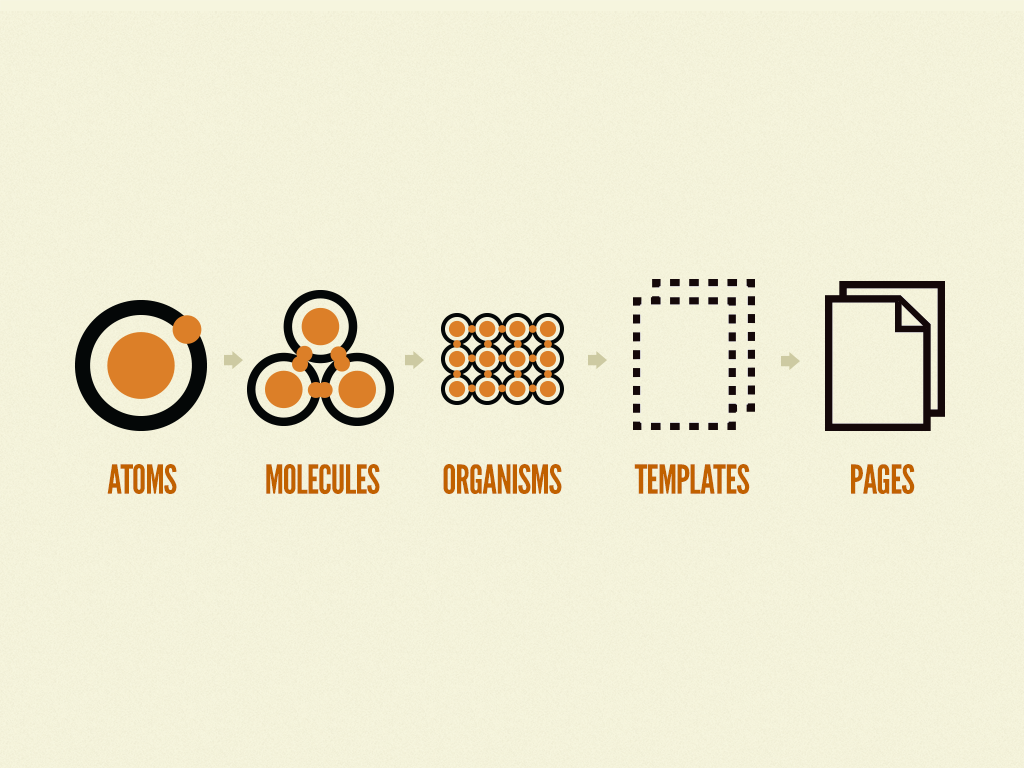
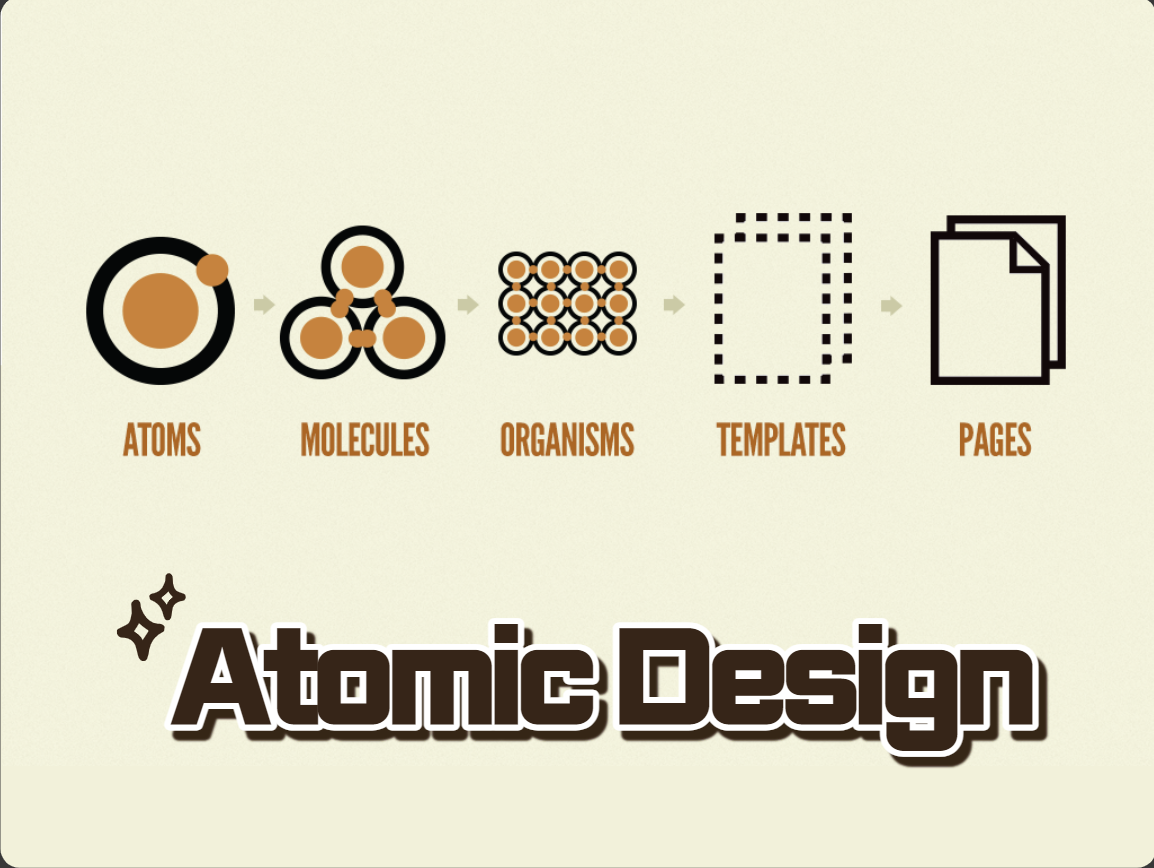
update posts

diff --git a/_posts/2023-11-17-atomic-design.md b/_posts/2023-11-17-atomic-design.md
@@ -1,1 +1,13 @@
+---
+layout: single
+title: "아토믹 디자인"
+categories: javascript
+tag: [python, blog]
+toc: true
+author_profile: false
+sidebar:
+  nav: "docs"
+toc: true
+---
+
 - props나 콘텍스트를 활용하고, 비즈니스 로직의 구현을 피하고, 편리하게 사용할 수 있게 한다.
